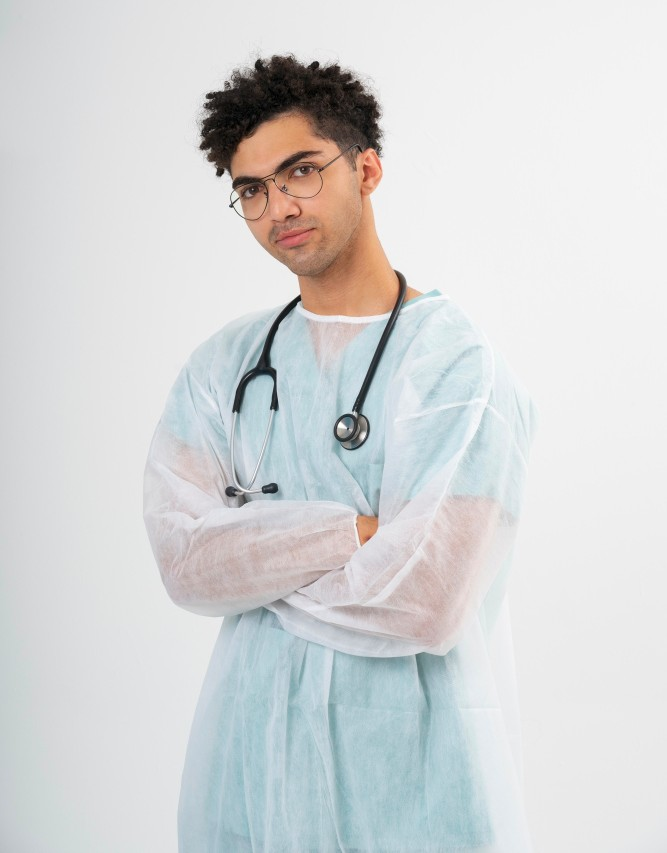
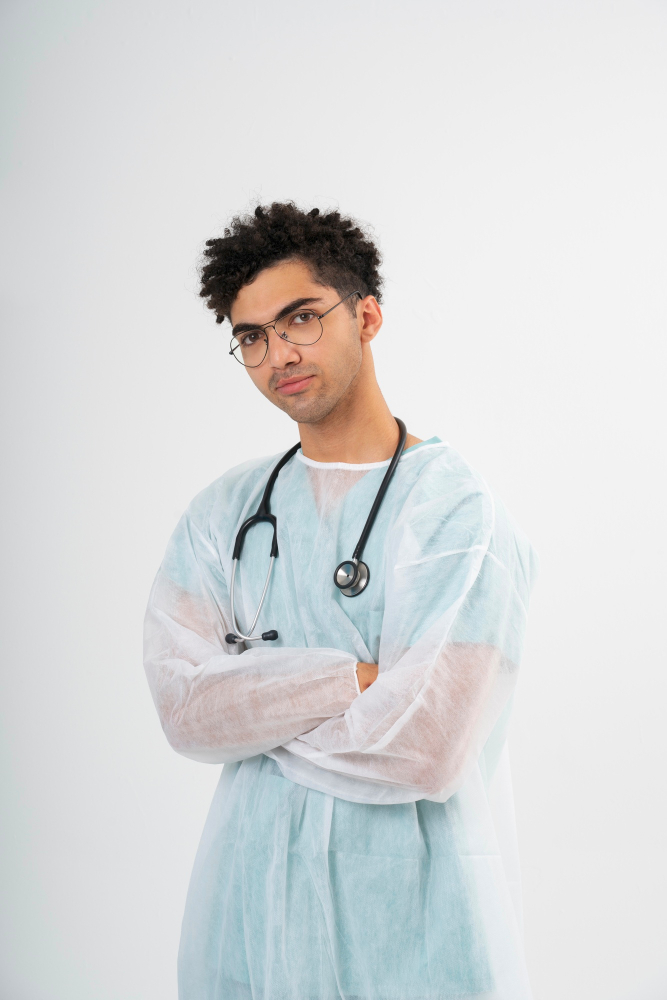
doctor carousels debug

Changed region(s): [[0.2099, 0.061, 0.7496, 0.8839], [0.2699, 0.823, 0.2999, 0.8839]]

diff --git a/components/home/doctor-card/doctor-carousel.tsx b/components/home/doctor-card/doctor-carousel.tsx
@@ -86,21 +86,21 @@ export default function DoctorCarousel({ items }: DoctorCarousel) {
                       fill
                       alt={item.name!}
                       className={cn(
-                        ' mix-blend-darken rounded-xl overflow-hidden'
+                        'object-cover mix-blend-multiply rounded-xl overflow-hidden'
                       )}
                     />
                   </figure>
                 )}
-                <article className="absolute bottom-0 w-full h-1/3 bg-primary/20 backdrop-blur-xl rounded-top-xl rounded-b-4xl flex  py-3 px-3 text-pretty text-xs md:text-sm lg:text-base">
+                <article className="absolute bottom-0 w-full h-1/3 bg-primary/20 backdrop-blur-xl rounded-t-xl rounded-b-4xl flex  py-3 px-3 text-pretty text-xs md:text-sm lg:text-base">
                   <div className="pt-2 flex flex-col gap-0.5">
                     <p className="font-bold">{item.name}</p>
                     <p className="font-semibold opacity-60">
                       {item.specialization!.name}
                     </p>
                   </div>
-                  <div className="absolute bottom-1 left-1 flex items-center justify-center size-12 rounded-full bg-gradient-to-bl from-blue-400 via-white to-blue-400">
+                  <div className="absolute bottom-1 left-1 flex items-center justify-center size-12 rounded-full bg-gradient-to-bl from-white via-blue-900/70 to-white">
                     <span className="rotate-45 p-0.5">
-                      <ArrowLeft />
+                      <ArrowLeft className="text-white" />
                     </span>
                   </div>
                 </article>
@@ -109,7 +109,7 @@ export default function DoctorCarousel({ items }: DoctorCarousel) {
           </CarouselItem>
         ))}
       </CarouselContent>
-      <CarouselPrevious className="hidden lg:flex items-center justify-center cursor-pointer size-12 bg-background/30 backdrop-blur-sm border-none top-1/2 -translate-y-1/2 left-2" />
+      <CarouselPrevious className=" flex items-center justify-center cursor-pointer size-12 bg-background/30 backdrop-blur-sm border-none top-1/2 -translate-y-1/2 left-2" />
       <CarouselNext className="hidden lg:flex items-center justify-center cursor-pointer size-12 bg-background/30 backdrop-blur-sm border-none top-1/2 -translate-y-1/2 right-4" />
     </Carousel>
   )

diff --git a/components/home/hero/AppleTypeHero.tsx b/components/home/hero/AppleTypeHero.tsx
@@ -1,11 +1,18 @@
 'use client'
 
+import Image from 'next/image'
 import React from 'react'
 
 export default function ToothGlassHero() {
   return (
     <section className="relative w-full h-screen overflow-hidden flex items-center justify-center bg-gradient-to-br from-pink-200 via-rose-300 to-orange-200">
       {/* Glass layer with tooth cutout */}
+      <Image
+        src={'/images/9.jpg'}
+        fill
+        alt=""
+        className="object-cover mask-conic-to-muted mix-blend-darken"
+      />
       <svg className="absolute inset-0 w-full h-full">
         <defs>
           <mask id="toothMask">
@@ -14,7 +21,7 @@ export default function ToothGlassHero() {
             <path
               d="M6.34,5.95c3.14-3.02,7.01-4.76,11.33-5.37c4.41-0.62,9.29-0.05,14.32,1.55c2.76,0.88,4.91,1.62,6.67,2.23 c3.33,1.15,5.12,1.78,6.74,1.78c1.95,0.01,4.3-0.84,9.39-2.66c1.58-0.57,3.31-1.19,3.48-1.25c4.4-1.55,8.68-2.32,12.62-2.23 c3.98,0.09,7.62,1.03,10.7,2.89c4.38,2.65,6.8,6.2,8.05,10.23c1.2,3.84,1.3,8.04,1.07,12.29c-0.33,6.13-1.39,12.13-3.19,17.99 c-1.72,5.61-4.11,11.09-7.16,16.45c1.55,9.74,1.98,18.5,1.71,26.24c-0.27,7.99-1.26,14.88-2.51,20.63 c-1.36,6.3-3.32,11.17-5.49,13.69c-1.24,1.44-2.63,2.26-4.13,2.36c-1.59,0.1-3.09-0.59-4.42-2.19c-1.86-2.24-3.55-6.67-4.81-13.78 c-0.35-1.97-0.55-4.14-0.64-5.08l-0.03-0.27l0,0l-0.06-0.56c-1.38-14-2.74-27.78-15.03-27.92c-5.86,1.34-8.95,4.1-10.67,8.18 c-1.88,4.47-2.33,10.72-2.85,18.36l0,0.03c-0.07,1.06-0.31,4.63-0.74,7.23c-1.19,7.21-2.9,11.7-4.8,13.95 c-1.33,1.56-2.82,2.25-4.41,2.16c-1.5-0.08-2.9-0.88-4.14-2.3c-2.19-2.5-4.14-7.35-5.39-13.73c-1.03-5.27-1.82-12.26-2.22-20.83 c-0.35-7.56-0.39-16.36-0.02-26.3c-2.11-4.83-3.99-9.69-5.52-14.6c-1.58-5.08-2.79-10.23-3.49-15.48 c-0.58-4.39-1.02-8.41-0.43-12.26C0.9,13.31,2.61,9.55,6.34,5.95L6.34,5.95z"
               fill="black"
-              transform="translate(200,100) scale(1.5)"
+              transform="translate(200,100) scale(2.5)"
               style={{
                 scale:
                   typeof window !== 'undefined' && window.innerWidth < 768
@@ -30,7 +37,7 @@ export default function ToothGlassHero() {
           width="100%"
           height="100%"
           mask="url(#toothMask)"
-          fill="rgba(255,255,255,0.15)"
+          fill="rgba(255,255,255,0.4)"
           style={{
             backdropFilter: 'blur(25px)',
             WebkitBackdropFilter: 'blur(25px)',

diff --git a/app/globals.css b/app/globals.css
@@ -10,6 +10,11 @@
   body {
     @apply bg-background text-foreground;
   }
+  /*  smooth behavior */
+  html {
+    scroll-padding-top: 56px;
+    scroll-behavior: smooth;
+  }
 }
 
 @theme inline {
@@ -203,15 +208,6 @@
   background: linear-gradient(145deg, #ffffff, #c9c9c9);
   border-radius: 100%;
   box-shadow: 0.3px 0.3px 1px #6d6868, -0.3px -0.3px 1px #9e9999;
-}
-
-@layer base {
-  * {
-    @apply border-border outline-ring/50;
-  }
-  body {
-    @apply bg-background text-foreground;
-  }
 }
 
 @keyframes fade-in {
